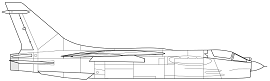
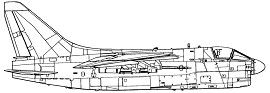
f8 new image

Changed region(s): [[0.0, 0.0, 1.0, 0.9877], [0.9778, 0.6914, 1.0, 0.7407]]

diff --git a/shilka2/classes/Aircraft.cs b/shilka2/classes/Aircraft.cs
@@ -550,7 +550,7 @@ namespace shilka2
                                 aircraftName: "F-8 Crusader",
                                 hitPoint: 80,
                                 aircraftWidth: 270,
-                                aircraftHeight: 81,
+                                aircraftHeight: 93,
                                 price: 6,
                                 speed: 8
                             ); break;
